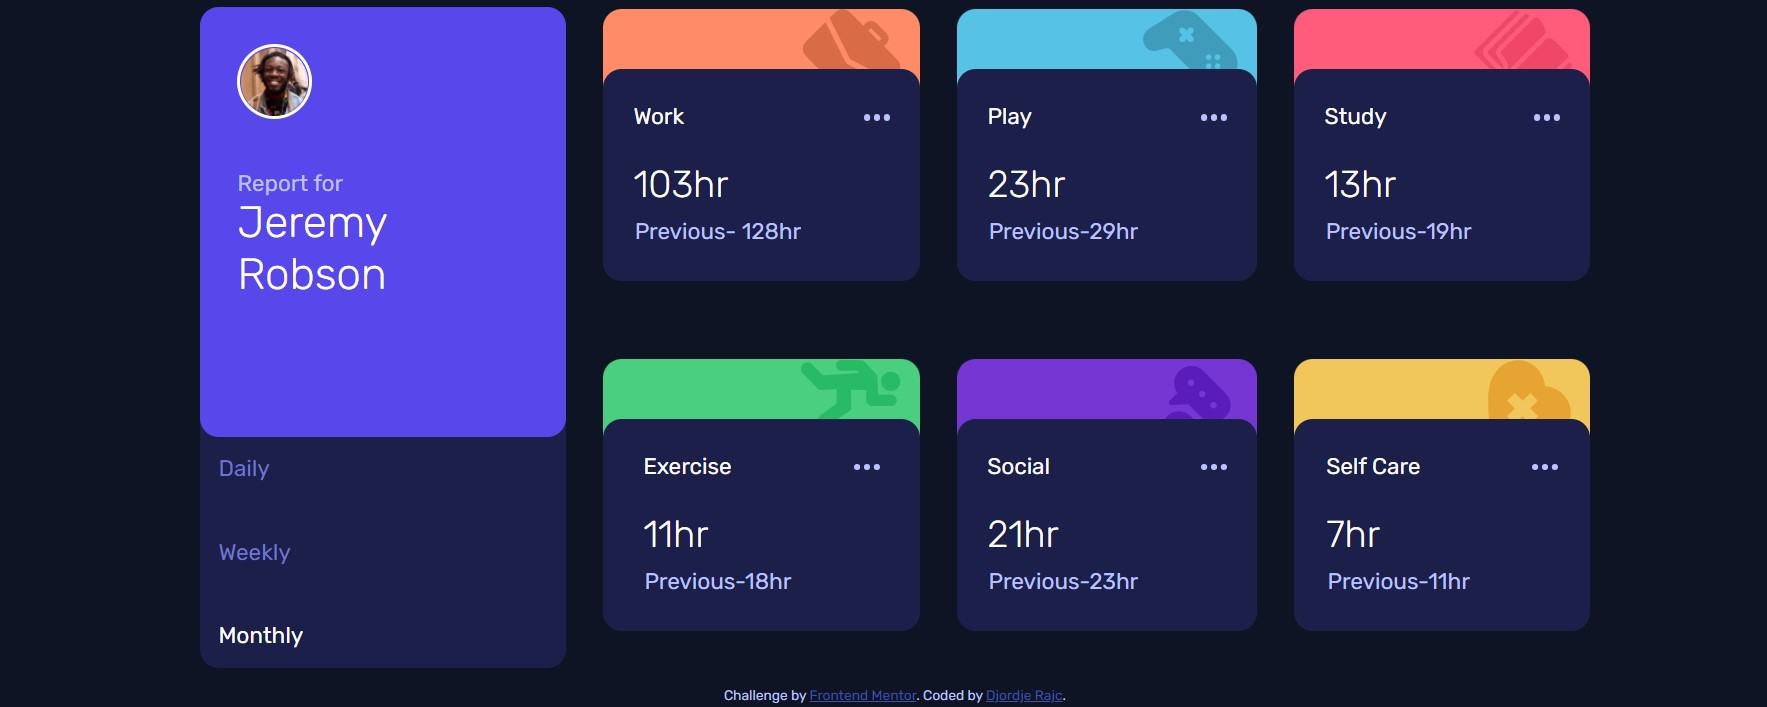
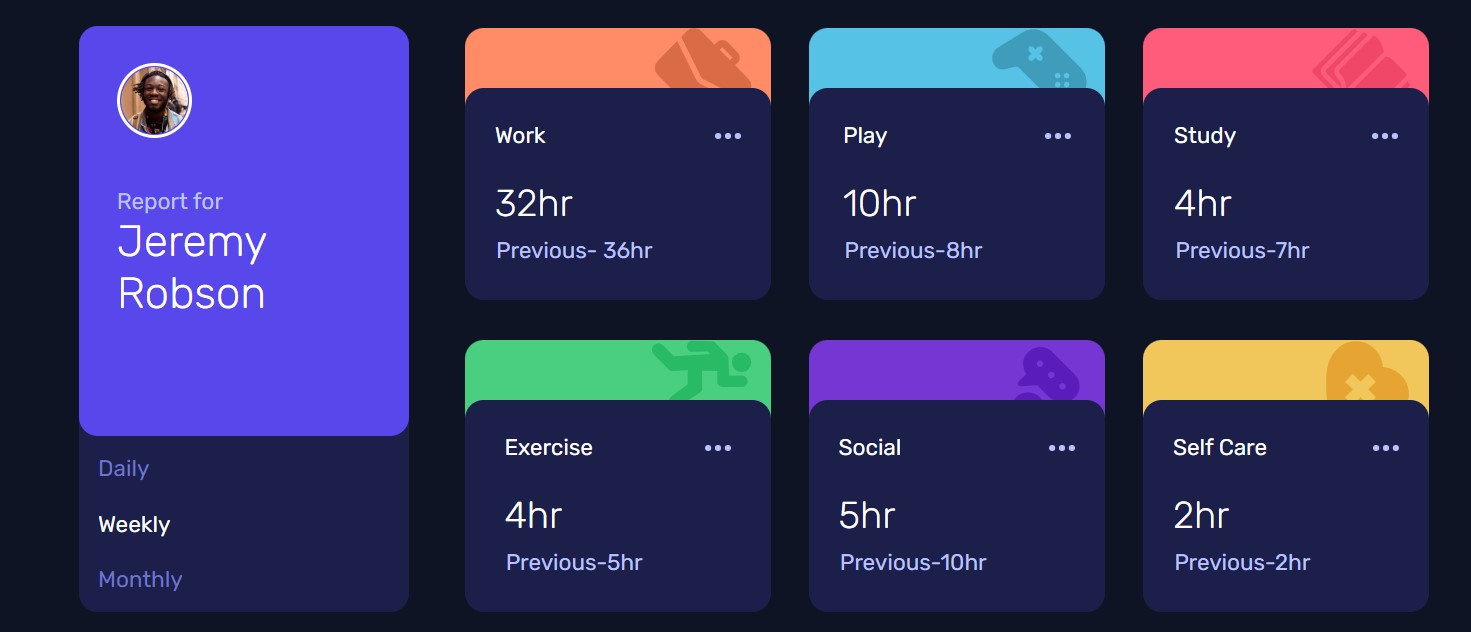
Changes
Changed some of the gap and margin issue so that elements look better. Added Live Site and Solution URLs

diff --git a/dist/style.css b/dist/style.css
@@ -1,2 +1,2 @@
-html{box-sizing:border-box;font-size:100%}*,:after,:before{box-sizing:inherit;margin:0;padding:0}body{background:var(--veryDarkBlue);color:var(--paleBlue);font-family:var(--font-rubik);font-size:18px}:root{--blue:#5847eb;--lightRed-work:#ff8c66;--softBlue-play:#56c2e6;--lightRed-study:#ff5c7c;--limeGreen-exercise:#4acf81;--violet-social:#7536d3;--softOrange-selfCare:#f1c65b;--veryDarkBlue:#0f1424;--darkBlue:#1c1f4a;--desaturatedBlue:#6f76c8;--desaturatedBlue-hover:#313881;--paleBlue:#bdc1ff;--paleBlue-title:#fff;--font-rubik:"Rubik",sans-serif}.card{margin:15px}@media only screen and (min-width:1140px){.card{align-items:center;display:grid;gap:30px;grid-template-areas:"one two tre for" "one five six seve";justify-content:center}}.card__person{background:var(--darkBlue);border-radius:15px;height:100%;margin-bottom:80px;position:relative;width:100%}@media only screen and (min-width:1140px){.card__person{grid-area:one;margin-bottom:0}}.card__person--top{align-items:center;background:var(--blue);border-radius:15px;display:flex;justify-content:center}@media only screen and (min-width:1140px){.card__person--top{flex-direction:column;height:65%;justify-content:right;padding:15px}}.card__person--top img{border:3px solid var(--paleBlue-title);border-radius:50%;height:auto;margin:15px;max-width:100%}@media only screen and (min-width:1140px){.card__person--top img{align-self:start;margin-bottom:40px}}.card__person--top span{font-weight:400;text-align:center}@media only screen and (min-width:1140px){.card__person--top span{padding:15px;text-align:left}}.card__person--top h1{color:var(--paleBlue-title);font-size:20px;font-weight:300}@media only screen and (min-width:1140px){.card__person--top h1{font-size:35px;margin-bottom:20px;padding:0 0 0 15px;text-align:left;width:60%}}.card__person--bottom{align-content:center;display:flex;justify-content:space-between;padding:20px}@media only screen and (min-width:1140px){.card__person--bottom{flex-direction:column;height:35%;padding:15px}}.card__person--bottom .active{color:var(--paleBlue-title)}.card__person--bottom a{color:var(--desaturatedBlue);text-decoration:none}.card__person--bottom a:hover{color:var(--paleBlue-title)}@media only screen and (min-width:1140px){.card__work{grid-area:two}.card__play{grid-area:tre}.card__study{grid-area:for}.card__exercise{grid-area:five}.card__social{grid-area:six}.card__selfcare{grid-area:seve}}.grid{margin-bottom:80px;margin-top:25px;position:relative}@media only screen and (min-width:1140px){.grid{margin-bottom:30px;margin-top:50px}}.grid__image{border-top-left-radius:15px;border-top-right-radius:15px;height:100%;padding-right:15px;position:absolute;text-align:right;top:-48px;width:100%}.grid__image--work{background:var(--lightRed-work)}.grid__image--play{background:var(--softBlue-play)}.grid__image--study{background:var(--lightRed-study)}.grid__image--exercise{background:var(--limeGreen-exercise)}.grid__image--social{background:var(--violet-social)}.grid__image--selfcare{background:var(--softOrange-selfCare)}.grid__info{align-items:center;background:var(--darkBlue);border-radius:15px;cursor:pointer;display:grid;grid-template-areas:"bac bac bac bac" "work one one img" "hours one one week";justify-content:space-between;line-height:1.6;padding:15px;position:inherit}.grid__info:hover{background:var(--desaturatedBlue-hover);transition:.3s ease}@media only screen and (min-width:1140px){.grid__info{align-items:center;grid-template-areas:"work one one img" "hours hours two two" "time time two two";justify-content:center}}.grid__info .title{color:var(--paleBlue-title);font-size:18px;font-weight:400;grid-area:work;margin-top:9px;padding-left:9px}@media only screen and (min-width:1140px){.grid__info .title{grid-area:work;margin-bottom:15px;text-align:left}}.grid__info .time{color:var(--paleBlue-title);font-size:30px;font-weight:300;grid-area:hours;padding-left:9px;text-align:left}@media only screen and (min-width:1140px){.grid__info .time{grid-area:hours}}.grid__info .image{grid-area:img;padding-right:9px;text-align:right}@media only screen and (min-width:1140px){.grid__info .image{grid-area:img;margin-bottom:12px;margin-left:40px}}.grid__info .image button{background:none;border:none;cursor:pointer}.grid__info .prev{grid-area:week;padding-right:10px;text-align:right}@media only screen and (min-width:1140px){.grid__info .prev{grid-area:time;margin-bottom:10px;padding-left:10px}}
+html{box-sizing:border-box;font-size:100%}*,:after,:before{box-sizing:inherit;margin:0;padding:0}body{background:var(--veryDarkBlue);color:var(--paleBlue);font-family:var(--font-rubik);font-size:18px}:root{--blue:#5847eb;--lightRed-work:#ff8c66;--softBlue-play:#56c2e6;--lightRed-study:#ff5c7c;--limeGreen-exercise:#4acf81;--violet-social:#7536d3;--softOrange-selfCare:#f1c65b;--veryDarkBlue:#0f1424;--darkBlue:#1c1f4a;--desaturatedBlue:#6f76c8;--desaturatedBlue-hover:#313881;--paleBlue:#bdc1ff;--paleBlue-title:#fff;--font-rubik:"Rubik",sans-serif}.card{margin:15px}@media only screen and (min-width:1140px){.card{align-items:center;-moz-column-gap:30px;column-gap:30px;display:grid;grid-template-areas:"one two tre for" "one five six seve";justify-content:center;margin:30px 0 0}}.card__person{background:var(--darkBlue);border-radius:15px;height:100%;margin-bottom:80px;position:relative;width:100%}@media only screen and (min-width:1140px){.card__person{grid-area:one;margin:0 auto;width:90%}}.card__person--top{align-items:center;background:var(--blue);border-radius:15px;display:flex;justify-content:center}@media only screen and (min-width:1140px){.card__person--top{flex-direction:column;height:70%;justify-content:right;padding:15px}}.card__person--top img{border:3px solid var(--paleBlue-title);border-radius:50%;height:auto;margin:15px;max-width:100%}@media only screen and (min-width:1140px){.card__person--top img{align-self:start;margin-bottom:40px}}.card__person--top span{font-weight:400;text-align:center}@media only screen and (min-width:1140px){.card__person--top span{padding:15px;text-align:left}}.card__person--top h1{color:var(--paleBlue-title);font-size:20px;font-weight:300}@media only screen and (min-width:1140px){.card__person--top h1{font-size:35px;margin-bottom:20px;padding:0 0 0 15px;text-align:left;width:60%}}.card__person--bottom{align-content:center;display:flex;justify-content:space-between;padding:20px}@media only screen and (min-width:1140px){.card__person--bottom{flex-direction:column;height:30%;padding:15px}}.card__person--bottom .active{color:var(--paleBlue-title)}.card__person--bottom a{color:var(--desaturatedBlue);text-decoration:none}.card__person--bottom a:hover{color:var(--paleBlue-title)}.card__work{margin-bottom:80px}@media only screen and (min-width:1140px){.card__work{grid-area:two}}.card__play{margin-bottom:80px}@media only screen and (min-width:1140px){.card__play{grid-area:tre}}.card__study{margin-bottom:80px}@media only screen and (min-width:1140px){.card__study{grid-area:for}}.card__exercise{margin-bottom:80px}@media only screen and (min-width:1140px){.card__exercise{grid-area:five;margin-bottom:0!important}}.card__social{margin-bottom:80px}@media only screen and (min-width:1140px){.card__social{grid-area:six;margin-bottom:0!important}.card__selfcare{grid-area:seve;margin-bottom:0!important}footer{margin-top:20px}}.grid{position:relative}@media only screen and (min-width:1140px){.grid{margin-bottom:30px;margin-top:50px}}.grid__image{border-top-left-radius:15px;border-top-right-radius:15px;height:100%;padding-right:15px;position:absolute;text-align:right;top:-48px;width:100%}.grid__image--work{background:var(--lightRed-work)}.grid__image--play{background:var(--softBlue-play)}.grid__image--study{background:var(--lightRed-study)}.grid__image--exercise{background:var(--limeGreen-exercise)}.grid__image--social{background:var(--violet-social)}.grid__image--selfcare{background:var(--softOrange-selfCare)}.grid__info{align-items:center;background:var(--darkBlue);border-radius:15px;cursor:pointer;display:grid;grid-template-areas:"bac bac bac bac" "work one one img" "hours one one week";justify-content:space-between;line-height:1.6;padding:15px;position:inherit}.grid__info:hover{background:var(--desaturatedBlue-hover);transition:.3s ease}@media only screen and (min-width:1140px){.grid__info{align-items:center;grid-template-areas:"work one one img" "hours hours two two" "time time two two";justify-content:center}}.grid__info .title{color:var(--paleBlue-title);font-size:18px;font-weight:400;grid-area:work;margin-top:9px;padding-left:9px}@media only screen and (min-width:1140px){.grid__info .title{grid-area:work;margin-bottom:15px;text-align:left}}.grid__info .time{color:var(--paleBlue-title);font-size:30px;font-weight:300;grid-area:hours;padding-left:9px;text-align:left}@media only screen and (min-width:1140px){.grid__info .time{grid-area:hours}}.grid__info .image{grid-area:img;padding-right:9px;text-align:right}@media only screen and (min-width:1140px){.grid__info .image{grid-area:img;margin-bottom:12px;margin-left:40px}}.grid__info .image button{background:none;border:none;cursor:pointer}.grid__info .prev{grid-area:week;padding-right:10px;text-align:right}@media only screen and (min-width:1140px){.grid__info .prev{grid-area:time;margin-bottom:10px;padding-left:10px}}
 /*# sourceMappingURL=style.css.map */

diff --git a/app/scss/components/cards.scss b/app/scss/components/cards.scss
@@ -6,9 +6,10 @@
         grid-template-areas: 
         "one two tre for"
         "one five six seve";
-        gap: 30px;
+        column-gap: 30px;
         justify-content:center;
         align-items: center;
+        margin: 30px 0 0 0;
     }
   
     &__person {
@@ -21,7 +22,8 @@
 
         @media only screen and (min-width: 1140px) {
             grid-area: one;
-            margin-bottom: 0;
+            width: 90%;
+            margin: 0 auto;
         }
 
         &--top {
@@ -36,7 +38,7 @@
                 padding: 15px;
                 justify-content: right;
                 flex-direction: column;
-                height: 65%;
+                height: 70%;
             }
             
 
@@ -89,7 +91,7 @@
 
             @media only screen and (min-width: 1140px){
                 flex-direction: column;
-                height: 35%;
+                height: 30%;
                 padding: 15px;       
             }
 
@@ -110,40 +112,54 @@
     }
 
     &__work {        
+        margin-bottom: 80px;
         @media only screen and (min-width: 1140px) {
             grid-area: two;
         }
     }
 
     &__play {
+        margin-bottom: 80px;
         @media only screen and (min-width: 1140px) {
             grid-area: tre;
         }
     }
 
     &__study {
+        margin-bottom: 80px;
         @media only screen and (min-width: 1140px) {
             grid-area: for;
         }
     }
 
     &__exercise {
+        margin-bottom: 80px;
         @media only screen and (min-width: 1140px) {
             grid-area: five;
+            margin-bottom: 0 !important;
         }
     }
 
     &__social {
+        margin-bottom: 80px;
         @media only screen and (min-width: 1140px) {
             grid-area: six;
+            margin-bottom: 0 !important;
         }
     }
 
     &__selfcare {
+        
         @media only screen and (min-width: 1140px) {
             grid-area: seve;
+            margin-bottom: 0 !important;
         }
     }
+}
 
+footer {
+    @media only screen and (min-width:1140px) {
+        margin-top: 20px;
+    }
 }
 

diff --git a/gulpfile.js b/gulpfile.js
@@ -52,7 +52,7 @@ function browserSyncReload(cb) {
 function watchTask() {
     watch('*,html', browserSyncReload);
     watch(
-        ['app/scss/**/*.scss', 'app/**/*.js'],
+        ['app/scss/**/*.scss', 'app/**/*.js', 'index.html'],
         series(scssTask, jsTask, browserSyncReload)
     );
 }

diff --git a/app/scss/components/look.scss b/app/scss/components/look.scss
@@ -1,7 +1,6 @@
 .grid {
     position: relative;
-    margin-top: 25px;
-    margin-bottom: 80px;
+   
    
     @media only screen and (min-width: 1140px) {
         margin-bottom: 30px;

diff --git a/README.md b/README.md
@@ -7,6 +7,7 @@ This is a solution to the [Time tracking dashboard challenge on Frontend Mentor]
 - [Overview](#overview)
   - [The challenge](#the-challenge)
   - [Screenshot](#screenshot)
+  - [Links](#links)
 - [My process](#my-process)
   - [Built with](#built-with)
   - [What I learned](#what-i-learned)
@@ -27,6 +28,11 @@ Users should be able to:
 ### Screenshot
 
 ![](images/Screenshot.jpg)
+
+### Links
+
+- Solution URL: (https://www.frontendmentor.io/solutions/responsive-landing-page-using-css-grid-iYFYdJbAX)
+- Live Site URL: (https://blurryface1998.github.io/time-tracking-dashboard-main/)
 
 ## My process
 
